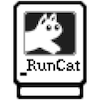
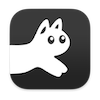
アイコンを新調

diff --git a/src/Index/Works/Works.tsx b/src/Index/Works/Works.tsx
@@ -30,6 +30,7 @@ export function Works(props: Props) {
       <OSS />
       <Published title={t("macOS_title")} values={worksData.macOS} />
       <Published title={t("iOS_title")} values={worksData.iOS} />
+      <Published title={t("android_title")} values={worksData.android} />
       <Published title={t("web_title")} values={worksData.web} />
       <Published title={t("minecraft_title")} values={worksData.minecraft} />
     </div>

diff --git a/src/Index/Profile/ProfileEnum.tsx b/src/Index/Profile/ProfileEnum.tsx
@@ -10,9 +10,9 @@ export function ProfileEnum(value: ProfileEnumValue) {
   const { title, content } = value;
 
   return (
-    <p className="profile-enum">
-      <span className="title">{title}</span>
-      <span>{content}</span>
-    </p>
+    <div className="profile-enum">
+      <p className="title">{title}</p>
+      <p className="content">{content}</p>
+    </div>
   );
 }

diff --git a/src/Index/Profile/ProfileEnum.css b/src/Index/Profile/ProfileEnum.css
@@ -1,9 +1,14 @@
 .profile-enum {
   margin: 4px;
   font-size: 22px;
+  display: flex;
 }
 
-.profile-enum span.title {
-  margin-right: 10px;
+.profile-enum p.title {
+  margin: 0px 10px 0px 0px;
   font-weight: bold;
+}
+
+.profile-enum p.content {
+  margin: 0;
 }
